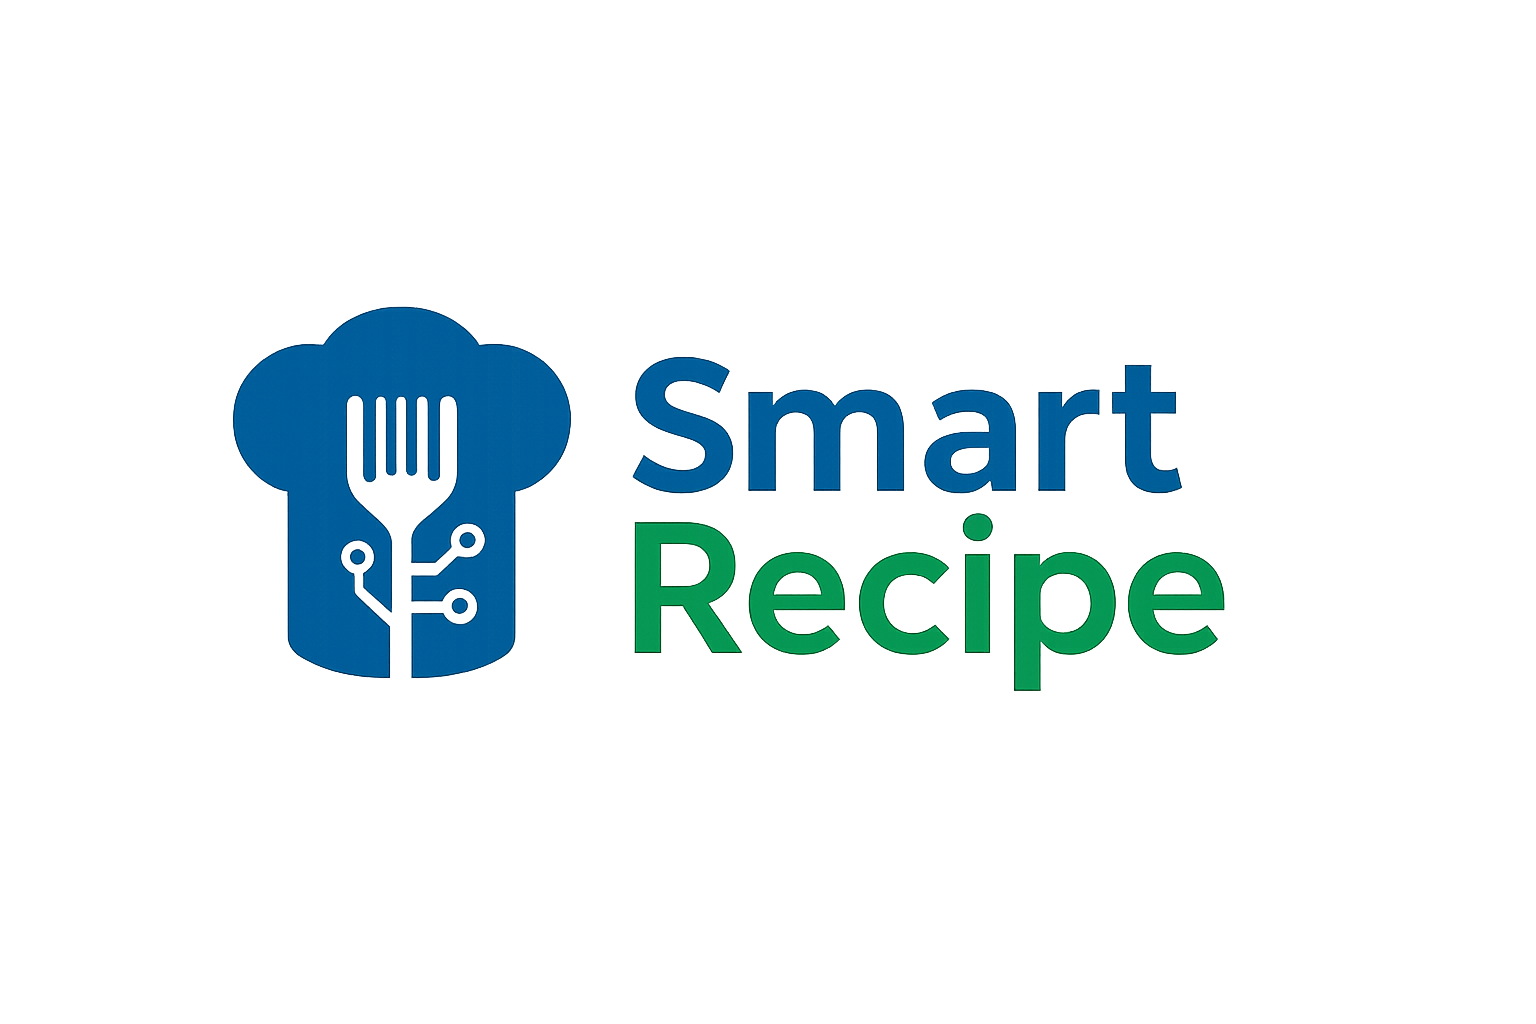
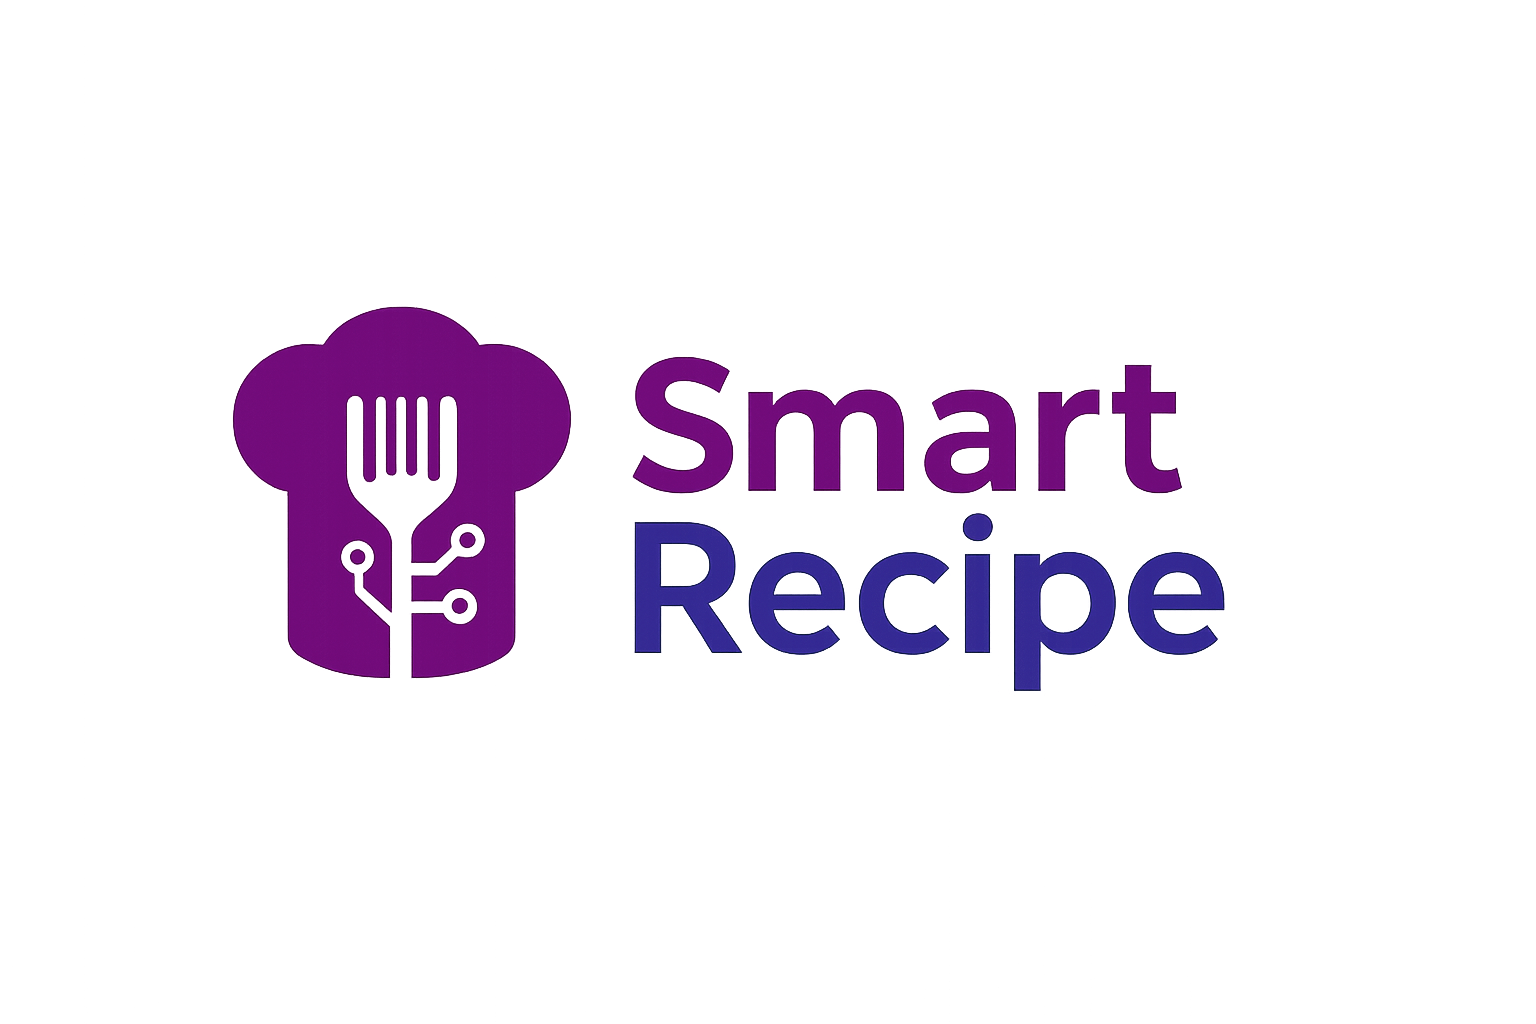
login y register funcionales

Changed region(s): [[0.4062, 0.3438, 0.8125, 0.6875], [0.125, 0.2812, 0.375, 0.6875]]

diff --git a/src/front/pages/Login.jsx b/src/front/pages/Login.jsx
@@ -3,50 +3,44 @@ import { useNavigate } from "react-router-dom";
 import useGlobalReducer from "../hooks/useGlobalReducer";
 
 export const Login = () => {
-  const { store, dispatch, login } = useGlobalReducer();
-  const [email, setEmail] = useState("");
-  const [password, setPassword] = useState("");
-  const navigate = useNavigate();
-  
-  const handleLogin = async (e) => {
-    e.preventDefault();
-    const success = await actions.login(email, password);
-    if (success) {
-      navigate("/Dashboard");
-    } else {
-      alert("Login failed");
-    }
-  };
+    const { login } = useGlobalReducer();
+    const [email, setEmail] = useState("");
+    const [password, setPassword] = useState("");
+    const navigate = useNavigate();
 
-  return (
-    <div className="container">
-      <h1 className="text-center mt-5">Login</h1>
-      <form onSubmit={handleLogin}>
-        <div className="mb-3">
-          <label>Email</label>
-          <input
-            type="email"
-            className="form-control"
-            value={email}
-            onChange={(e) => setEmail(e.target.value)}
-            required
-          />
+    const handleLogin = async (e) => {
+        e.preventDefault();
+        const success = await login(email, password);
+        if (success) {
+            navigate("/dashboard");
+        } else {
+            alert("Credenciales inválidas");
+        }
+    };
+
+    return (
+        <div className="auth-page login-page">
+            <h1 className="hero-title">Iniciar sesión</h1>
+            <form className="auth-form" onSubmit={handleLogin}>
+                <input
+                    type="email"
+                    name="email"
+                    placeholder="Correo electrónico"
+                    value={email}
+                    onChange={(e) => setEmail(e.target.value)}
+                    required
+                />
+                <input
+                    type="password"
+                    name="password"
+                    placeholder="Contraseña"
+                    value={password}
+                    onChange={(e) => setPassword(e.target.value)}
+                    required
+                />
+                <button type="submit" className="cta-button">Entrar</button>
+            </form>
         </div>
-        <div className="mb-3">
-          <label>Password</label>
-          <input
-            type="password"
-            className="form-control"
-            value={password}
-            onChange={(e) => setPassword(e.target.value)}
-            required
-          />
-        </div>
-        <button type="submit" className="btn btn-primary w-100">
-          Login
-        </button>
-      </form>
-    </div>
-  );
+    );
 };
 

diff --git a/src/front/routes.jsx b/src/front/routes.jsx
@@ -1,6 +1,7 @@
 import { BrowserRouter, Route, Routes } from "react-router-dom";
 import { Home } from "./pages/Home.jsx";
 import { Login } from "./pages/Login.jsx";
+import Register from "./pages/Register.jsx";
 import { Navbar } from "./components/Navbar.jsx";
 import ListaCompra from "./pages/ListaCompra.jsx";
 import Dashboard from "./pages/Dashboard.jsx";
@@ -12,7 +13,7 @@ const AppRoutes = () => (
       <Route path="/" element={<Home />} />
       <Route path="/login" element={<Login />} />
       <Route path="/dashboard" element={<Dashboard />} />
-      <Route path="/register" element={<Login />} />
+      <Route path="/Register" element={<Register />} />
       <Route path="/ListaCompra" element={<ListaCompra />} />      
     </Routes>
   </BrowserRouter>

diff --git a/src/front/index.css b/src/front/index.css
@@ -1,5 +1,5 @@
 /*Apartado HOME.JSX*/
-body {
+.home {
   font-family: "Segoe UI", Tahoma, Geneva, Verdana, sans-serif;
   line-height: 1.6;
   color: #333;

diff --git a/src/front/main.jsx b/src/front/main.jsx
@@ -1,6 +1,6 @@
 import React from 'react';
 import ReactDOM from 'react-dom/client';
-import './index.css';
+import "/workspaces/spain-fs-pt-103-final-project-2/src/front/index.css";
 import AppRoutes from './routes';
 import { BackendURL } from './components/BackendURL';
 import { StoreProvider } from './hooks/useGlobalReducer';

diff --git a/src/front/pages/Home.jsx b/src/front/pages/Home.jsx
@@ -1,7 +1,6 @@
 import React, { useEffect } from "react";
 import { Link } from "react-router-dom";
 import { Navbar } from "../components/Navbar.jsx";
-import "../index.css";
 import useGlobalReducer from "../hooks/useGlobalReducer.jsx";
 
 export const Home = () => {

diff --git a/src/app.py b/src/app.py
@@ -35,6 +35,7 @@ def create_app():
     app.register_blueprint(api_auth, url_prefix="/api")
     app.register_blueprint(chat_api, url_prefix="/api")
 
+
     return app
 
 